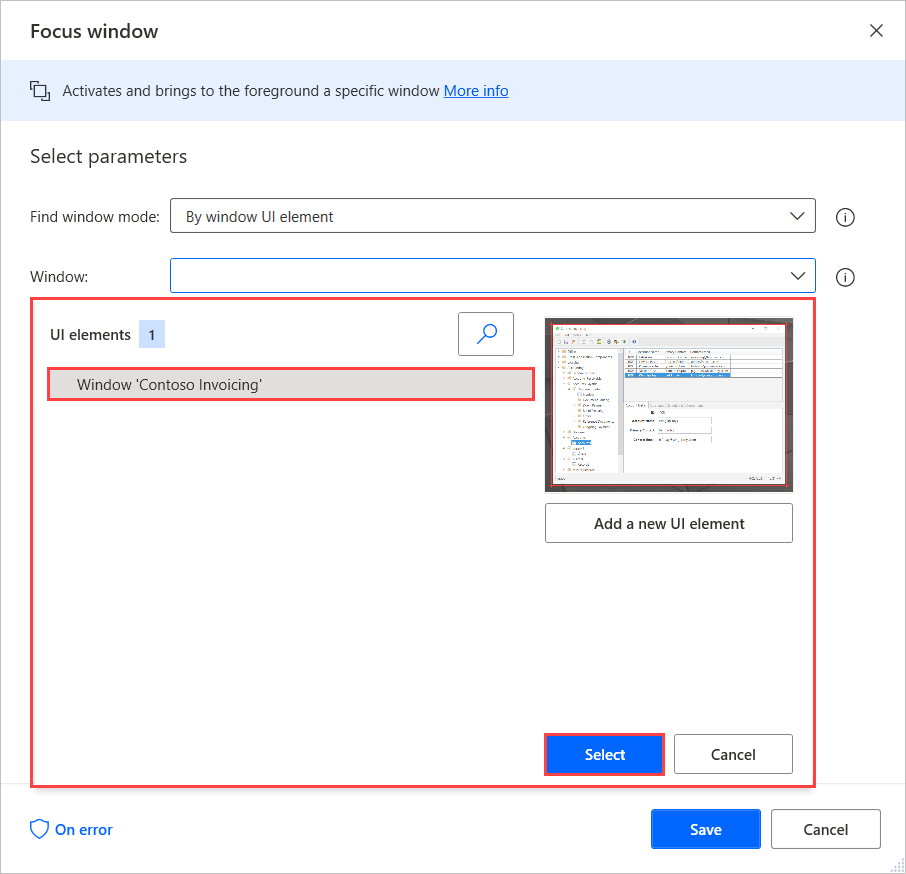
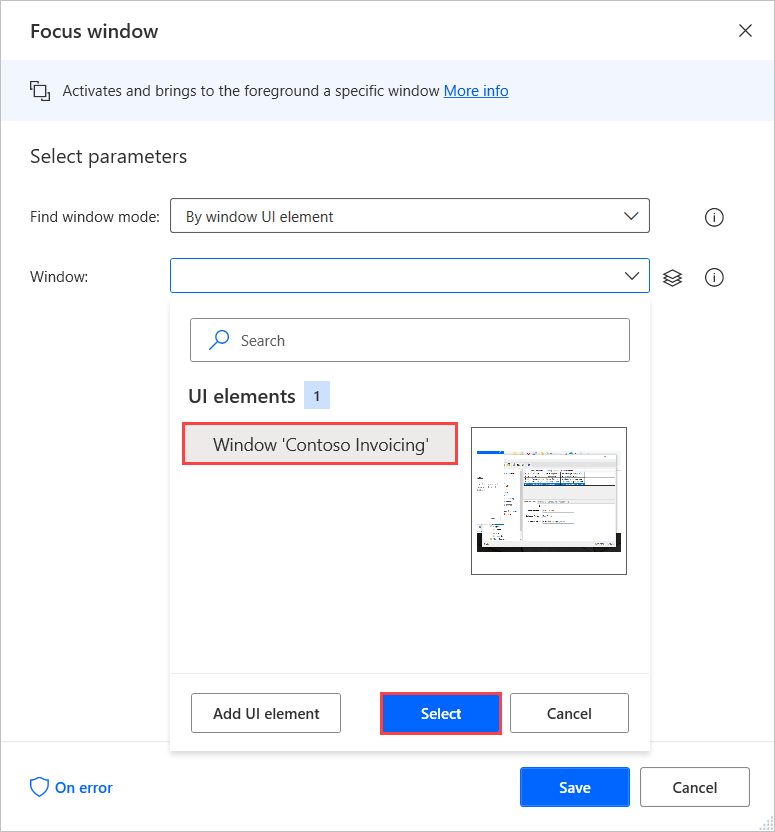
Updated screenshots and text in Use PAD to interact with windows

diff --git a/learn-bizapps-pr/flow/pad-ui-automation/includes/2-ui-elements.md b/learn-bizapps-pr/flow/pad-ui-automation/includes/2-ui-elements.md
@@ -10,6 +10,6 @@ Doing so will launch the UISpy, which allows the capturing of multiple UI elemen
 
 ![Screenshot of the Add multiple U I elements.](../media/add-multiple-ui-elements.png)
 
-Alternatively, when configuring a UI/Windows action, select the drop-down list and press the **Add a new UI element** button:
+Alternatively, when configuring a UI/Windows action, select the drop-down list and press the **Add UI element** button:
 
 ![Screenshot of the Add U I element through a U I action.](../media/add-ui-element-through-ui-action.png)
